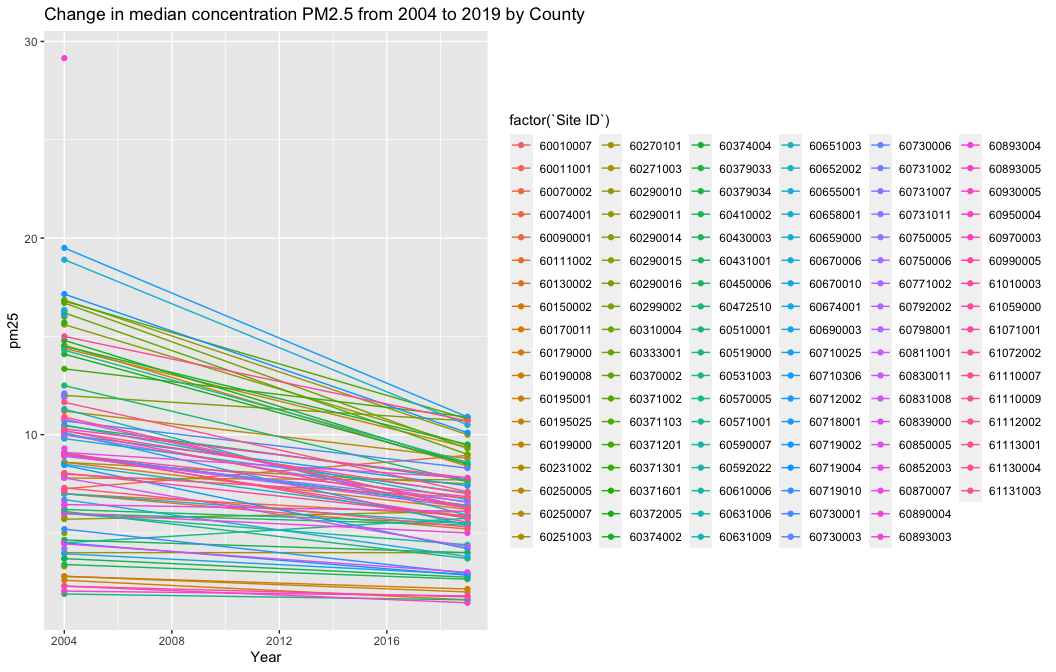
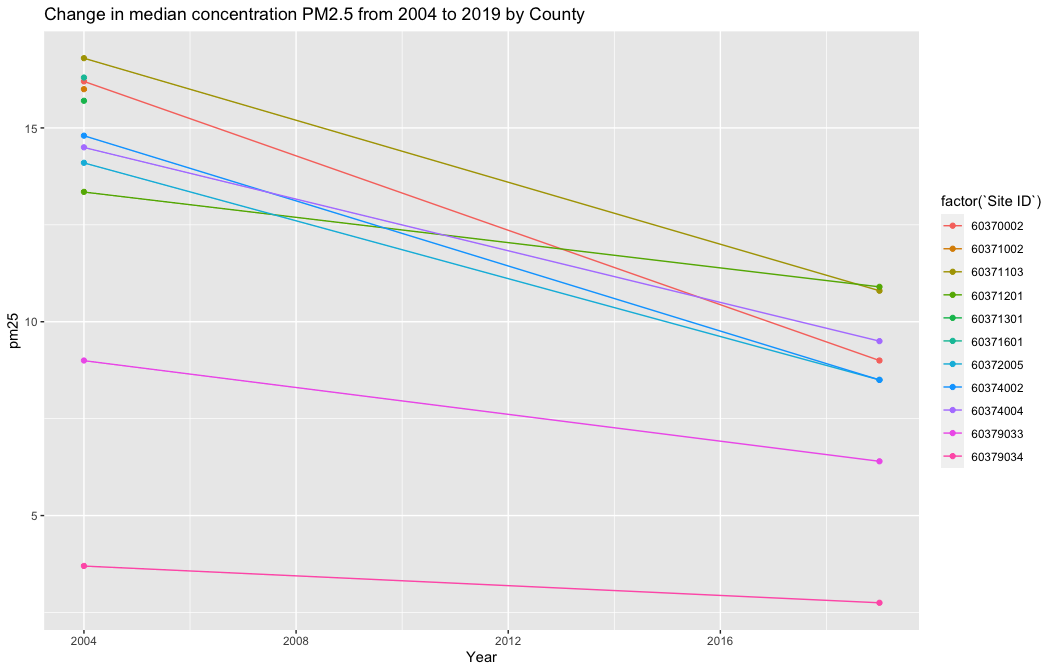
update aasignment1

diff --git a/PM566_HW1.md b/PM566_HW1.md
@@ -1029,7 +1029,8 @@ there are still a few counties actually increased their levels.
 calculate median in site level
 
 ``` r
-site <- group_by(PM, year, `Site ID`) %>% summarize(pm25 = median(pm25, na.rm= TRUE))
+site <- PM[which(PM$COUNTY_CODE==37), ]
+site <- group_by(site, year, `Site ID`) %>% summarize(pm25 = median(pm25, na.rm= TRUE))
 ```
 
     ## `summarise()` has grouped output by 'year'. You can override using the
@@ -1042,27 +1043,35 @@ site <- site[raw_site, ]
 site
 ```
 
-    ## # A tibble: 184 × 3
+    ## # A tibble: 19 × 3
     ## # Groups:   year [2]
     ##     year `Site ID`  pm25
     ##    <dbl>     <int> <dbl>
-    ##  1  2004  60010007  9.1 
-    ##  2  2004  60011001  7.95
-    ##  3  2004  60070002 10   
-    ##  4  2004  60074001  7.25
-    ##  5  2004  60090001  7   
-    ##  6  2004  60111002  7   
-    ##  7  2004  60130002  8.6 
-    ##  8  2004  60150002  2.8 
-    ##  9  2004  60170011  9   
-    ## 10  2004  60179000  2.6 
-    ## # … with 174 more rows
+    ##  1  2004  60370002 16.2 
+    ##  2  2004  60371002 16   
+    ##  3  2004  60371103 16.8 
+    ##  4  2004  60371201 13.4 
+    ##  5  2004  60371301 15.7 
+    ##  6  2004  60371601 16.3 
+    ##  7  2004  60372005 14.1 
+    ##  8  2004  60374002 14.8 
+    ##  9  2004  60374004 14.5 
+    ## 10  2004  60379033  9   
+    ## 11  2004  60379034  3.7 
+    ## 12  2019  60370002  9   
+    ## 13  2019  60371103 10.8 
+    ## 14  2019  60371201 10.9 
+    ## 15  2019  60372005  8.5 
+    ## 16  2019  60374002  8.5 
+    ## 17  2019  60374004  9.5 
+    ## 18  2019  60379033  6.4 
+    ## 19  2019  60379034  2.75
 
 ``` r
 dim(site)
 ```
 
-    ## [1] 184   3
+    ## [1] 19  3
 
 Site-wide analysis_plot Now make a plot that shows the 2004 site-wide
 medians in one “column” and the 2019 site-wide medians in another one.
@@ -1080,3 +1089,68 @@ qplot(Year, pm25, data = mutate(site, Year = as.numeric(as.character(year))),
 Based on the plot above, we could observe that many sites have decreased
 the median concentration of PM2.5 from 2004 to 2019, although there are
 still a few sites actually increased their levels.
+
+``` r
+PM[`COUNTY`== "Los Angeles"]
+```
+
+    ##             Date Source  Site ID POC pm25    UNITS DAILY_AQI_VALUE Site Name
+    ##    1: 01/01/2004    AQS 60370002   1 18.0 ug/m3 LC              63     Azusa
+    ##    2: 01/02/2004    AQS 60370002   1 20.4 ug/m3 LC              68     Azusa
+    ##    3: 01/03/2004    AQS 60370002   1  8.0 ug/m3 LC              33     Azusa
+    ##    4: 01/07/2004    AQS 60370002   1 23.6 ug/m3 LC              75     Azusa
+    ##    5: 01/08/2004    AQS 60370002   1 28.3 ug/m3 LC              85     Azusa
+    ##   ---                                                                       
+    ## 7154: 12/14/2019    AQS 60379034   1  2.8 ug/m3 LC              12     Lebec
+    ## 7155: 12/17/2019    AQS 60379034   1  1.4 ug/m3 LC               6     Lebec
+    ## 7156: 12/20/2019    AQS 60379034   1  1.1 ug/m3 LC               5     Lebec
+    ## 7157: 12/23/2019    AQS 60379034   1  0.5 ug/m3 LC               2     Lebec
+    ## 7158: 12/26/2019    AQS 60379034   1  0.3 ug/m3 LC               1     Lebec
+    ##       DAILY_OBS_COUNT PERCENT_COMPLETE AQS_PARAMETER_CODE
+    ##    1:               1              100              88101
+    ##    2:               1              100              88101
+    ##    3:               1              100              88101
+    ##    4:               1              100              88101
+    ##    5:               1              100              88101
+    ##   ---                                                    
+    ## 7154:               1              100              88502
+    ## 7155:               1              100              88502
+    ## 7156:               1              100              88502
+    ## 7157:               1              100              88502
+    ## 7158:               1              100              88502
+    ##                           AQS_PARAMETER_DESC CBSA_CODE
+    ##    1:               PM2.5 - Local Conditions     31080
+    ##    2:               PM2.5 - Local Conditions     31080
+    ##    3:               PM2.5 - Local Conditions     31080
+    ##    4:               PM2.5 - Local Conditions     31080
+    ##    5:               PM2.5 - Local Conditions     31080
+    ##   ---                                                 
+    ## 7154: Acceptable PM2.5 AQI & Speciation Mass     31080
+    ## 7155: Acceptable PM2.5 AQI & Speciation Mass     31080
+    ## 7156: Acceptable PM2.5 AQI & Speciation Mass     31080
+    ## 7157: Acceptable PM2.5 AQI & Speciation Mass     31080
+    ## 7158: Acceptable PM2.5 AQI & Speciation Mass     31080
+    ##                                CBSA_NAME STATE_CODE      STATE COUNTY_CODE
+    ##    1: Los Angeles-Long Beach-Anaheim, CA          6 California          37
+    ##    2: Los Angeles-Long Beach-Anaheim, CA          6 California          37
+    ##    3: Los Angeles-Long Beach-Anaheim, CA          6 California          37
+    ##    4: Los Angeles-Long Beach-Anaheim, CA          6 California          37
+    ##    5: Los Angeles-Long Beach-Anaheim, CA          6 California          37
+    ##   ---                                                                     
+    ## 7154: Los Angeles-Long Beach-Anaheim, CA          6 California          37
+    ## 7155: Los Angeles-Long Beach-Anaheim, CA          6 California          37
+    ## 7156: Los Angeles-Long Beach-Anaheim, CA          6 California          37
+    ## 7157: Los Angeles-Long Beach-Anaheim, CA          6 California          37
+    ## 7158: Los Angeles-Long Beach-Anaheim, CA          6 California          37
+    ##            COUNTY      lat       lon year
+    ##    1: Los Angeles 34.13650 -117.9239 2004
+    ##    2: Los Angeles 34.13650 -117.9239 2004
+    ##    3: Los Angeles 34.13650 -117.9239 2004
+    ##    4: Los Angeles 34.13650 -117.9239 2004
+    ##    5: Los Angeles 34.13650 -117.9239 2004
+    ##   ---                                    
+    ## 7154: Los Angeles 34.81303 -118.8848 2019
+    ## 7155: Los Angeles 34.81303 -118.8848 2019
+    ## 7156: Los Angeles 34.81303 -118.8848 2019
+    ## 7157: Los Angeles 34.81303 -118.8848 2019
+    ## 7158: Los Angeles 34.81303 -118.8848 2019
